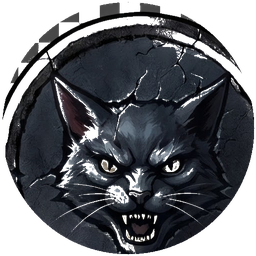
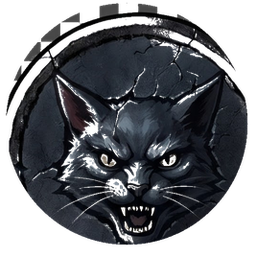
Wycentruj medaliony szkół w kółkach rosteru
Globalne .ico-school-img wymuszało 1.75rem i flex-start, więc PNG
siedział w lewym górnym rogu badge. Nadpisanie w badge/avatar +
lekkie wycentrowanie assetów PNG.

diff --git a/wiedzmin-helper/css/styles.css b/wiedzmin-helper/css/styles.css
@@ -877,11 +877,28 @@ h3 {
   box-shadow: inset 0 0 0 1px rgba(255, 255, 255, 0.22);
 }
 
-.roster-card-badge .ico-school-img,
-.roster-card-badge .ico-img {
+/* Nadpisuje globalne .ico (margin/vertical-align) i .ico-school-img .ico-img (1.75rem),
+   które inaczej zostawiają medalion w lewym górnym rogu kółka. */
+.roster-card-badge > .ico {
+  display: flex;
+  align-items: center;
+  justify-content: center;
   width: 100%;
   height: 100%;
+  margin: 0;
+  vertical-align: 0;
+  line-height: 0;
+}
+
+.roster-card-badge .ico-school-img .ico-img {
+  display: block;
+  /* Overscale + lekki lift: PNG wypełnia kółko; rysunek zwierzęcia w assetach siedzi nisko. */
+  width: 118%;
+  height: 118%;
+  max-width: none;
   object-fit: cover;
+  object-position: center;
+  transform: translateY(-6%);
 }
 
 .roster-card-fields {
@@ -1714,11 +1731,25 @@ h3 {
   box-shadow: inset 0 0 0 1px rgba(255, 255, 255, 0.2);
 }
 
-.order-avatar .ico-school-img,
-.order-avatar .ico-img {
+.order-avatar > .ico {
+  display: flex;
+  align-items: center;
+  justify-content: center;
   width: 100%;
   height: 100%;
+  margin: 0;
+  vertical-align: 0;
+  line-height: 0;
+}
+
+.order-avatar .ico-school-img .ico-img {
+  display: block;
+  width: 118%;
+  height: 118%;
+  max-width: none;
   object-fit: cover;
+  object-position: center;
+  transform: translateY(-6%);
 }
 
 .order-identity {
